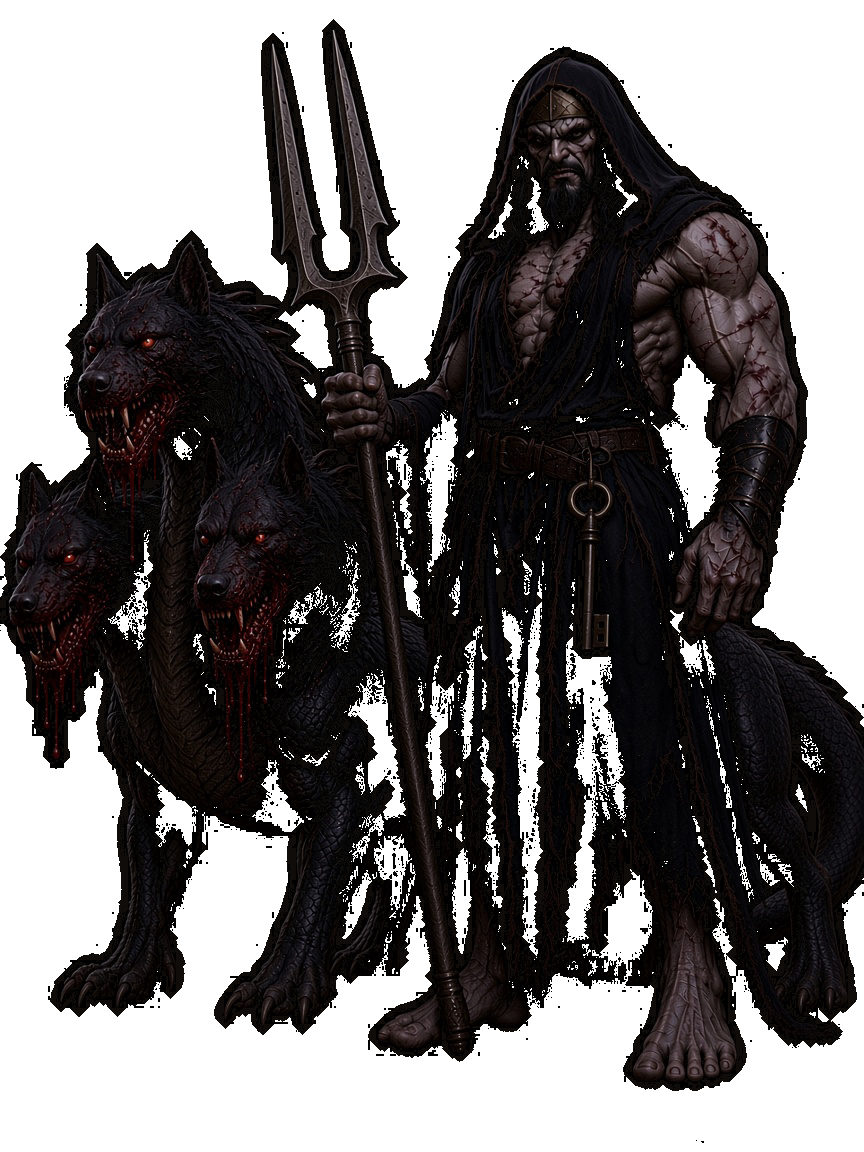
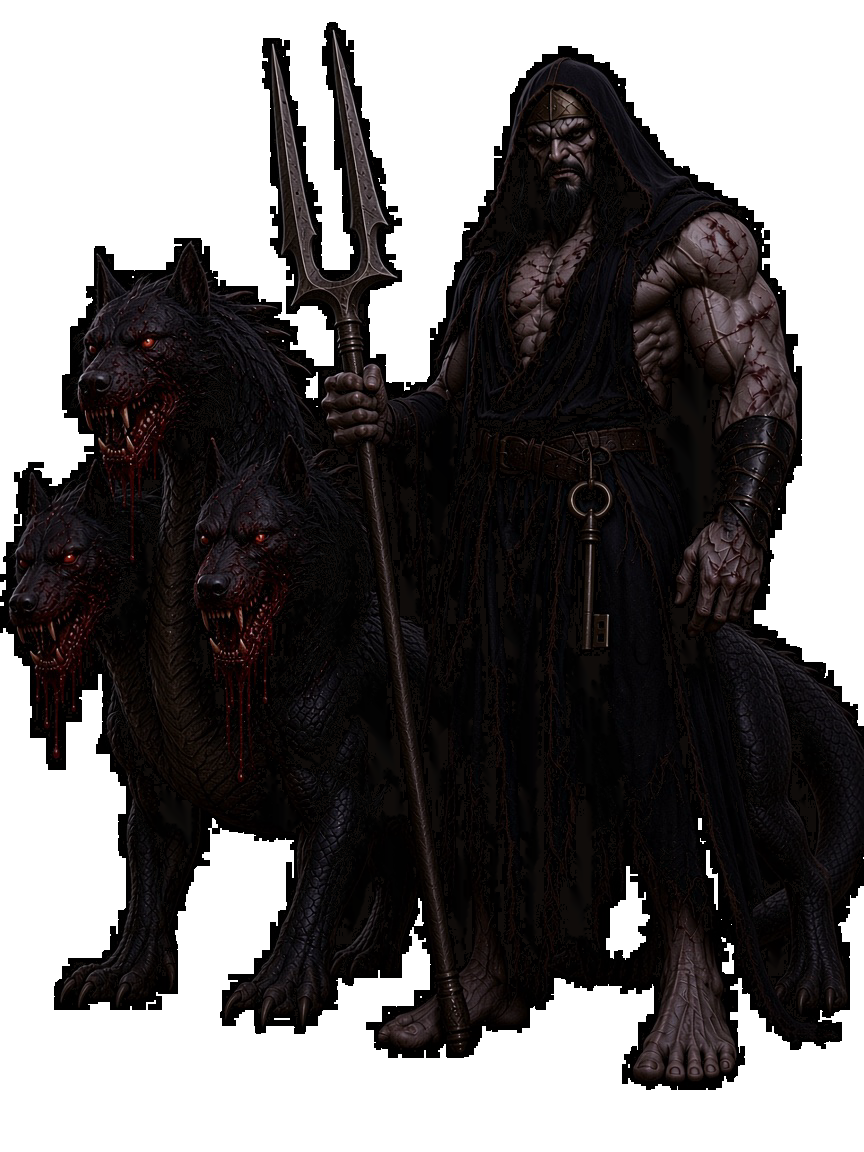
ハデスとミノタウロスの背景を透過し、黒い縁取りにする。

diff --git a/index.html b/index.html
@@ -7513,7 +7513,7 @@
       },
       {
         name: "ミノタウロス",
-        image: "enemy-minotaur.png?v=6",
+        image: "enemy-minotaur.png?v=7",
         tier: 3,
         rank: "強敵",
         hp: 50,
@@ -12324,10 +12324,10 @@
             <div class="ref-grid">
               ${sheetFig("enemy-slime.png?v=7", "スライム", "enemy-ref")}
               ${sheetFig("enemy-goblin.png?v=4", "ゴブリン", "enemy-ref")}
-              ${sheetFig("enemy-minotaur.png?v=6", "ミノタウロス", "enemy-ref")}
+              ${sheetFig("enemy-minotaur.png?v=7", "ミノタウロス", "enemy-ref")}
               ${sheetFig("enemy-dragon.png?v=3", "ちびドラゴン", "enemy-ref")}
               ${sheetFig("enemy-beggar.png?v=2", "物乞い", "enemy-ref")}
-              ${sheetFig("enemy-hades.png?v=2", "ハデス", "enemy-ref")}
+              ${sheetFig("enemy-hades.png?v=3", "ハデス", "enemy-ref")}
               ${sheetFig("enemy-ram.png?v=1", "羊頭のデーモン", "enemy-ref")}
               ${sheetFig("enemy-gargoyle.png?v=1", "ガーゴイル", "enemy-ref")}
               ${sheetFig("enemy-merfolk.png?v=1", "マーフォーク", "enemy-ref")}
